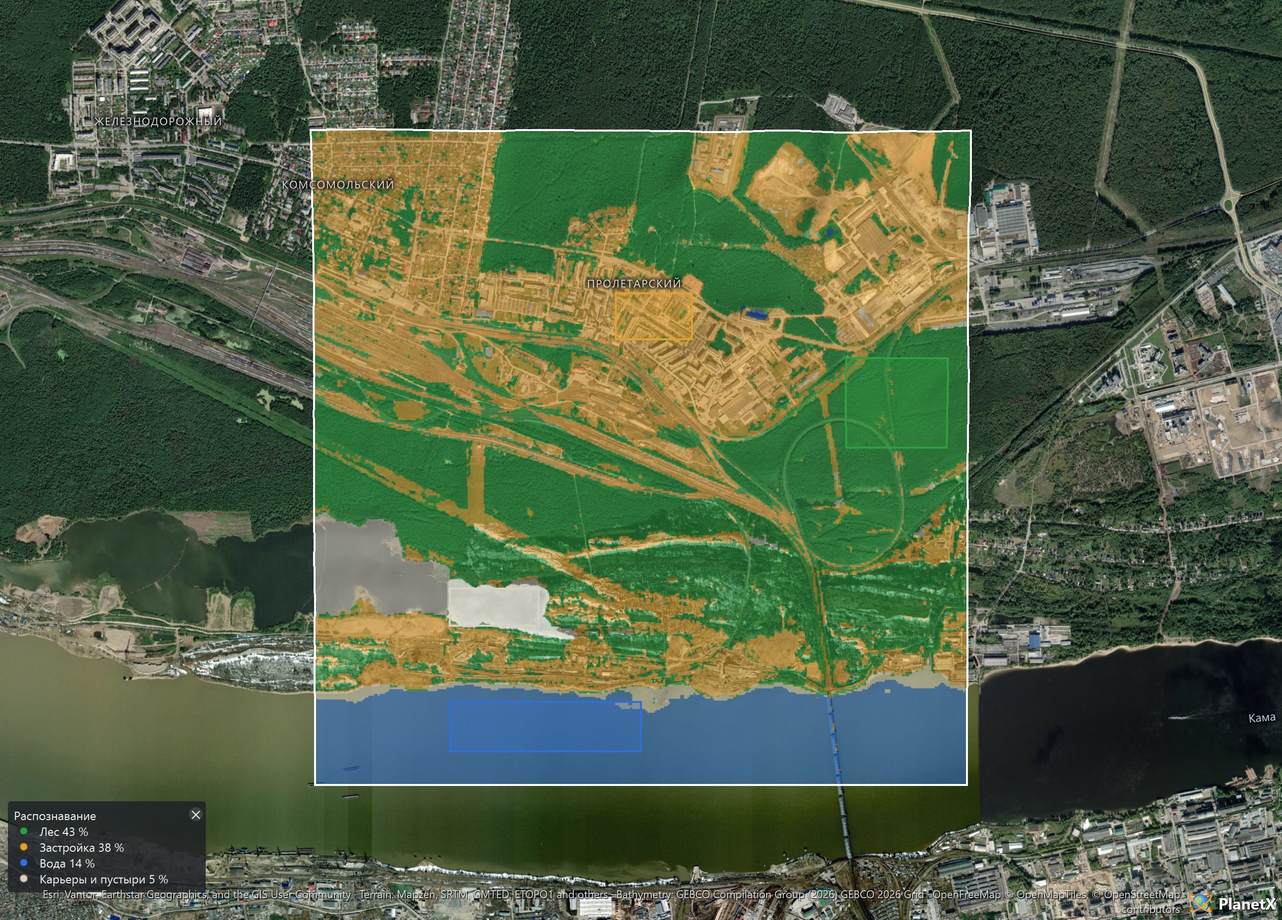
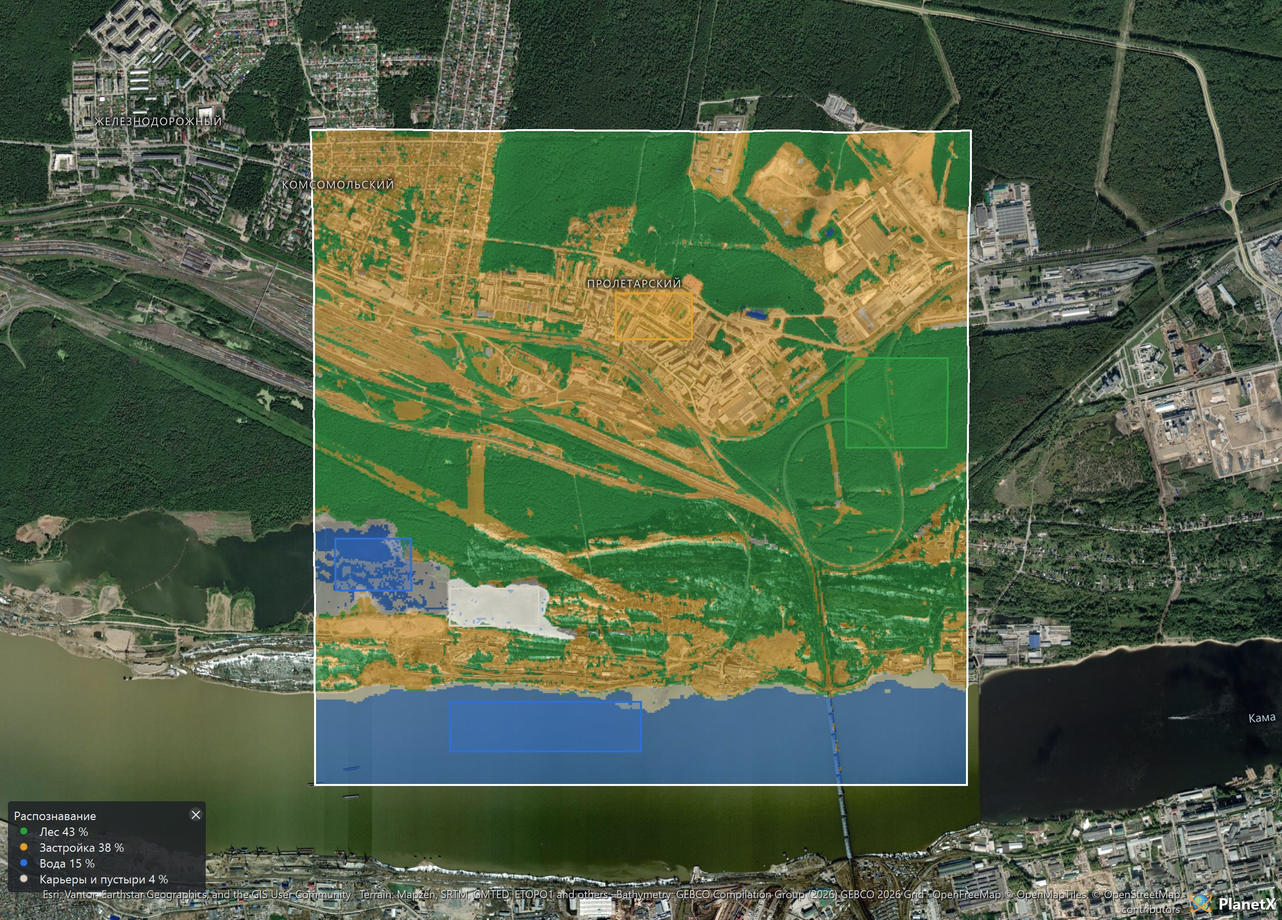
Статья 1.38: второй контур воды на пруду, кадры пересняты

Changed region(s): [[0.25, 0.5613, 0.3438, 0.686]]

diff --git a/tools/qgis_check_steps.py b/tools/qgis_check_steps.py
@@ -21693,11 +21693,13 @@ def post138_build():
             row.color = QColor(sample[2])
             row._paint()
         row.pick.setChecked(True)
-        tool.click(far, far, *ring[0])
-        for point in ring[1:]:
-            dialog.sample.add(*point)
-        dialog.sample.drawing = False
-        dialog.sample.edited()
+        # Кольцо или список колец - несколько контуров класса.
+        for one in (ring if isinstance(ring[0][0], list) else [ring]):
+            tool.click(far, far, *one[0])
+            for point in one[1:]:
+                dialog.sample.add(*point)
+            dialog.sample.drawing = False
+            dialog.sample.edited()
     result["post138_build"] = {"counts": [r.count.text()
                                           for r in dialog.rows]}
     view.update()

diff --git a/site/posts_1.38.md b/site/posts_1.38.md
@@ -25,7 +25,7 @@ PlanetX - трёхмерный глобус в отдельном окне QGIS.
 
 Точки и контуры одного класса работают вместе. Щелчок по точке или внутри контура убирает его. Контуры видны на глобусе цветом своего класса.
 
-В примере четыре класса и четыре прямоугольника - вода на Каме, сосновый лес у развязки, жилые кварталы Пролетарского и белый отвал у берега.
+В примере четыре класса и пять прямоугольников - вода на Каме и на пруду слева от отвала, сосновый лес у развязки, жилые кварталы Пролетарского и белый отвал у берега.
 
 [картинка planetx_post_138_samples.jpg] Участок 3.5 км и образцы классов на подложке Esri. Синий - вода, зелёный - лес, оранжевый - застройка, светлый - карьеры и пустыри.
 
@@ -42,11 +42,11 @@ PlanetX - трёхмерный глобус в отдельном окне QGIS.
 
 Загрузка двух снимков участка 3 км идёт около трёх минут. Загруженные снимки ложатся в проект QGIS, и следующее «Построить» на том же участке берёт их без загрузки. В примере окно взяло снимки 6 июля и 30 марта 2026 года, оба без облаков над участком.
 
-[картинка planetx_post_138_dialog.jpg] Окно «Распознавание». Таблица снимков, образцы - «Области», четыре класса по одному контуру.
+[картинка planetx_post_138_dialog.jpg] Окно «Распознавание». Таблица снимков, образцы - «Области», у воды два контура, у остальных классов по одному.
 
 ## Шаг 4. Результат
 
-Каждая клетка участка получает класс ближайших к ней образцов по сходству каналов обоих снимков. Классы ложатся на глобус своими цветами, шкала в углу вида называет долю каждого класса. В примере вышло так - лес 43 %, застройка 38 %, вода 14 %, карьеры и пустыри 5 %. Железные дороги, улицы и промзоны попали в застройку, лесные полосы между путями - в лес.
+Каждая клетка участка получает класс ближайших к ней образцов по сходству каналов обоих снимков. Классы ложатся на глобус своими цветами, шкала в углу вида называет долю каждого класса. В примере вышло так - лес 43 %, застройка 38 %, вода 15 %, карьеры и пустыри 4 %. Железные дороги, улицы и промзоны попали в застройку, лесные полосы между путями - в лес.
 
 [картинка planetx_post_138_classes.jpg] Классы участка на глобусе. Зелёный - лес, оранжевый - застройка, синий - вода, светлый - карьеры и пустыри.
 
@@ -54,7 +54,7 @@ OK записывает в проект QGIS растр классов и сло
 
 ## Если результат не тот
 
-Классы точны настолько, насколько точны образцы. Место, не похожее ни на один образец, всё равно получает ближайший класс. В примере тёмный водоём слева от отвала ушёл в «Карьеры и пустыри» - образец воды взят только с Камы. Помогает второй контур того же класса на таком месте. Контур можно добавить и нажать «Построить» ещё раз, снимки уже в проекте, пересчёт занимает секунды. Тонкие настройки - пиксель, деление на объекты, другой источник - есть в окне «Классификация».
+Классы точны настолько, насколько точны образцы. Место, не похожее ни на один образец, всё равно получает ближайший класс. Сначала в примере был один образец воды, на Каме, и тёмный пруд слева от отвала ушёл в «Карьеры и пустыри» - у стоячей воды пруда другой цвет. Второй контур воды на пруду вернул его к воде, к пустырям осталось только мелководье по краю. Контур добавляется в том же окне, и «Построить» считает заново. Снимки уже в проекте, поэтому пересчёт идёт меньше минуты. Тонкие настройки - пиксель, деление на объекты, другой источник - есть в окне «Классификация».
 
 ## Что ещё в 1.38
 
